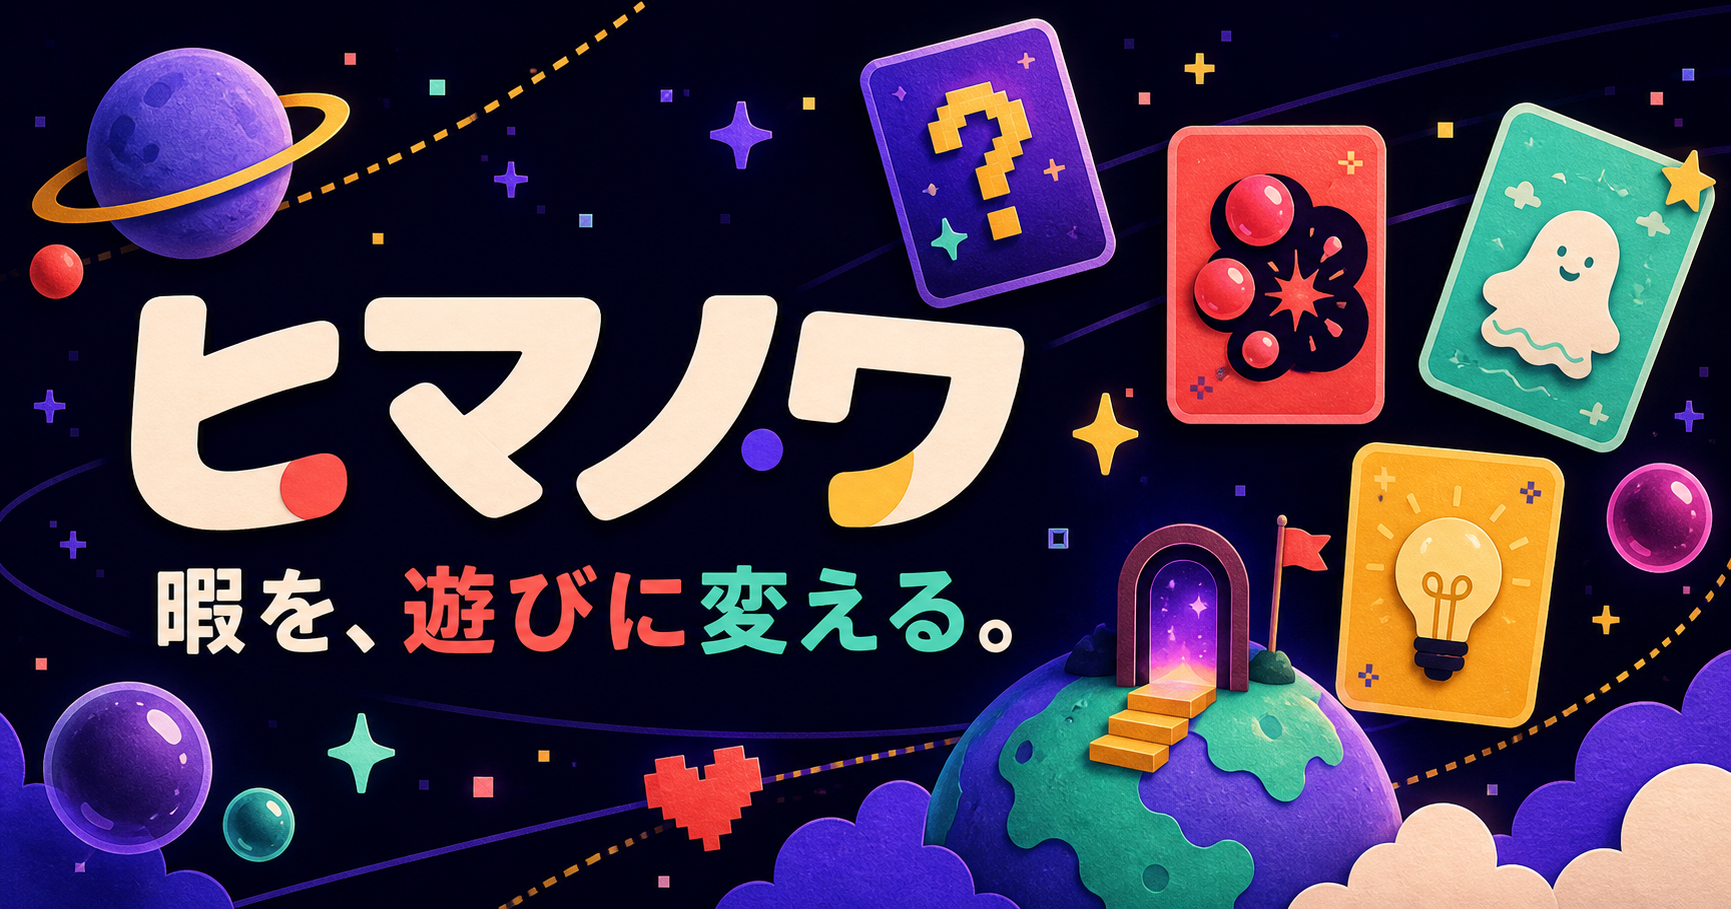
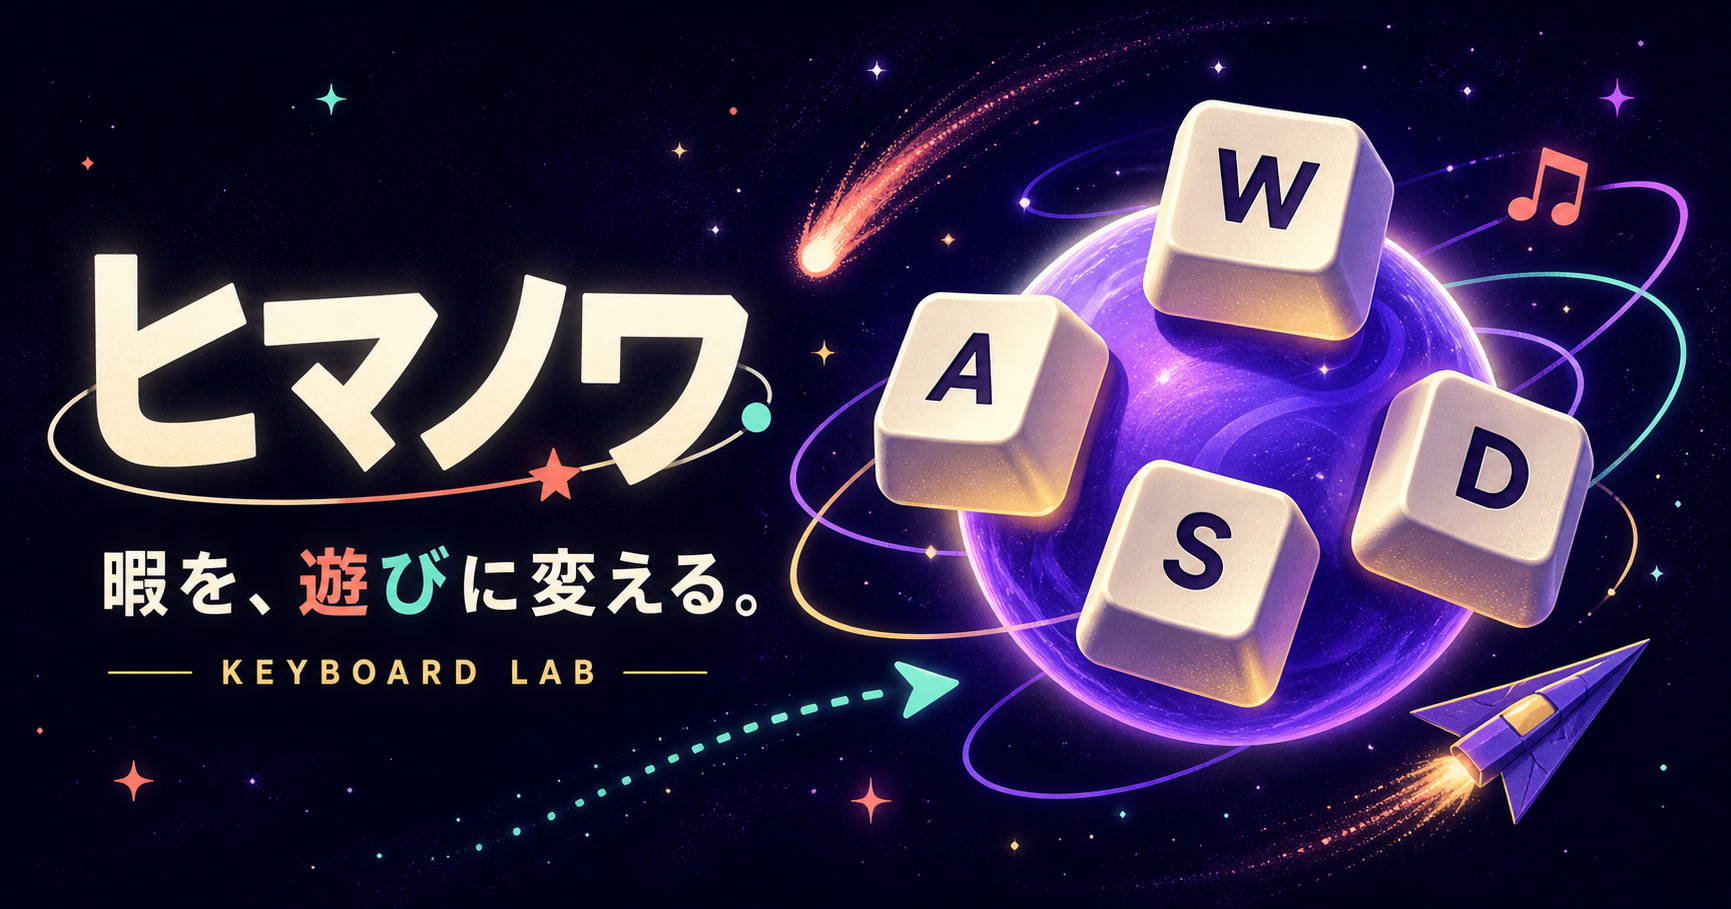
test: document and verify keyboard playground

diff --git a/app/layout.tsx b/app/layout.tsx
@@ -8,7 +8,7 @@ export async function generateMetadata(): Promise<Metadata> {
   const protocol = requestHeaders.get("x-forwarded-proto") ?? (host.startsWith("localhost") ? "http" : "https");
   const metadataBase = new URL(`${protocol}://${host}`);
   const title = "ヒマノワ｜暇を、遊びに変える。";
-  const description = "1分から遊べるミニゲーム、診断、ひらめきガチャ、気分転換ツールが集まる暇つぶしポータル。";
+  const description = "クリックでも、キーでも。タイピングや方向キーゲームを含む14種類の小さな遊びが1分から楽しめる暇つぶしポータル。";
   const socialImage = new URL("/og.png", metadataBase).toString();
 
   return {
@@ -21,7 +21,7 @@ export async function generateMetadata(): Promise<Metadata> {
       title,
       description,
       siteName: "ヒマノワ",
-      images: [{ url: socialImage, width: 1733, height: 909, alt: "ヒマノワ — 暇を、遊びに変える。" }],
+      images: [{ url: socialImage, width: 1731, height: 909, alt: "ヒマノワ — 暇を、遊びに変える。KEYBOARD LAB" }],
     },
     twitter: { card: "summary_large_image", title, description, images: [socialImage] },
   };

diff --git a/README.md b/README.md
@@ -4,12 +4,13 @@
 
 ## 収録コンテンツ
 
+- キーボードゲーム：タイピング彗星、アロー・ドリフト、オービット・ガード、キー・コーラス
 - ミニゲーム：秒速リアクション、カラー・クラッシュ、星座の記憶
 - 診断：暇つぶしタイプ診断、今日の脳内天気
 - 気分転換：無限プチプチ宇宙、ひと息オービット、究極じゃない二択
 - ひらめき：ひらめきガチャ、一行タイムカプセル
 
-ゲームの記録、獲得した sparks、カプセル、お気に入りはブラウザの端末内に保存されます。
+ゲームの記録、獲得した sparks、連続プレイ、デイリーミッション、称号、カプセル、お気に入りはブラウザの端末内に保存されます。各コンテンツには操作方法の説明があり、`/` で検索、`?` でヘルプ、`Esc` でホームへ戻れます。
 
 ## 開発
 
